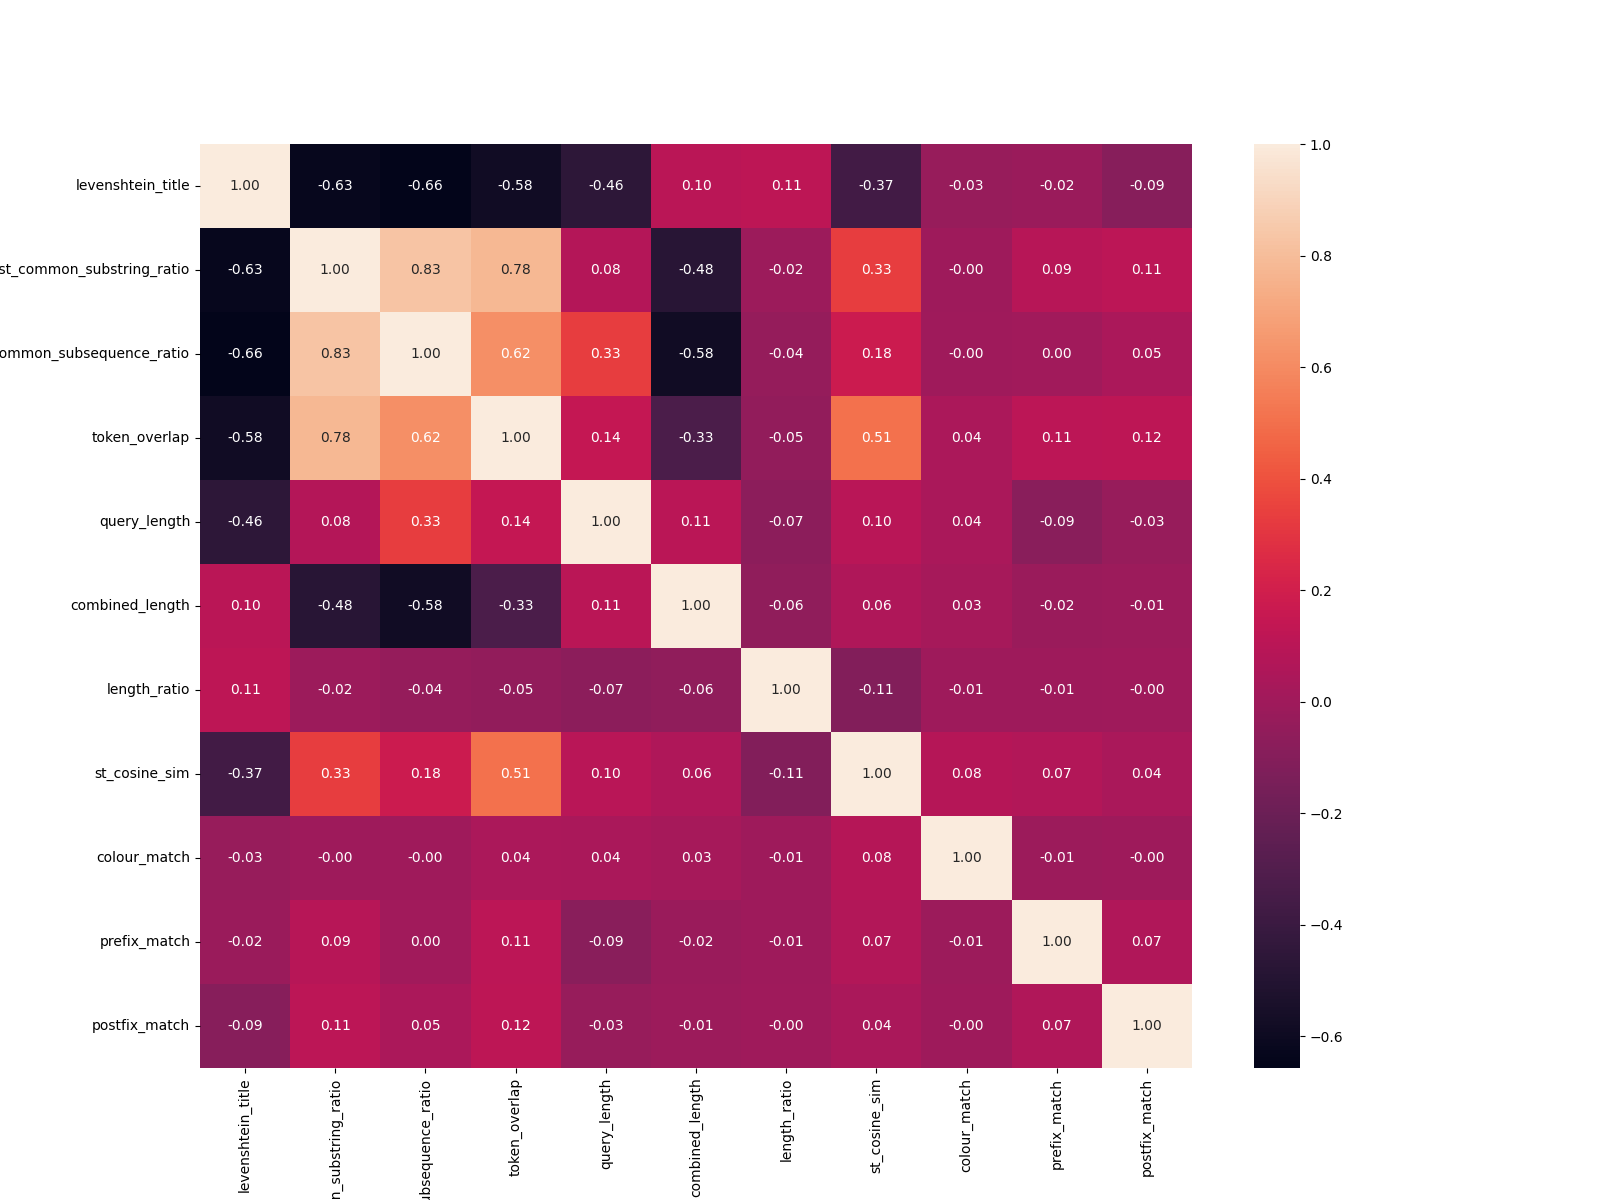
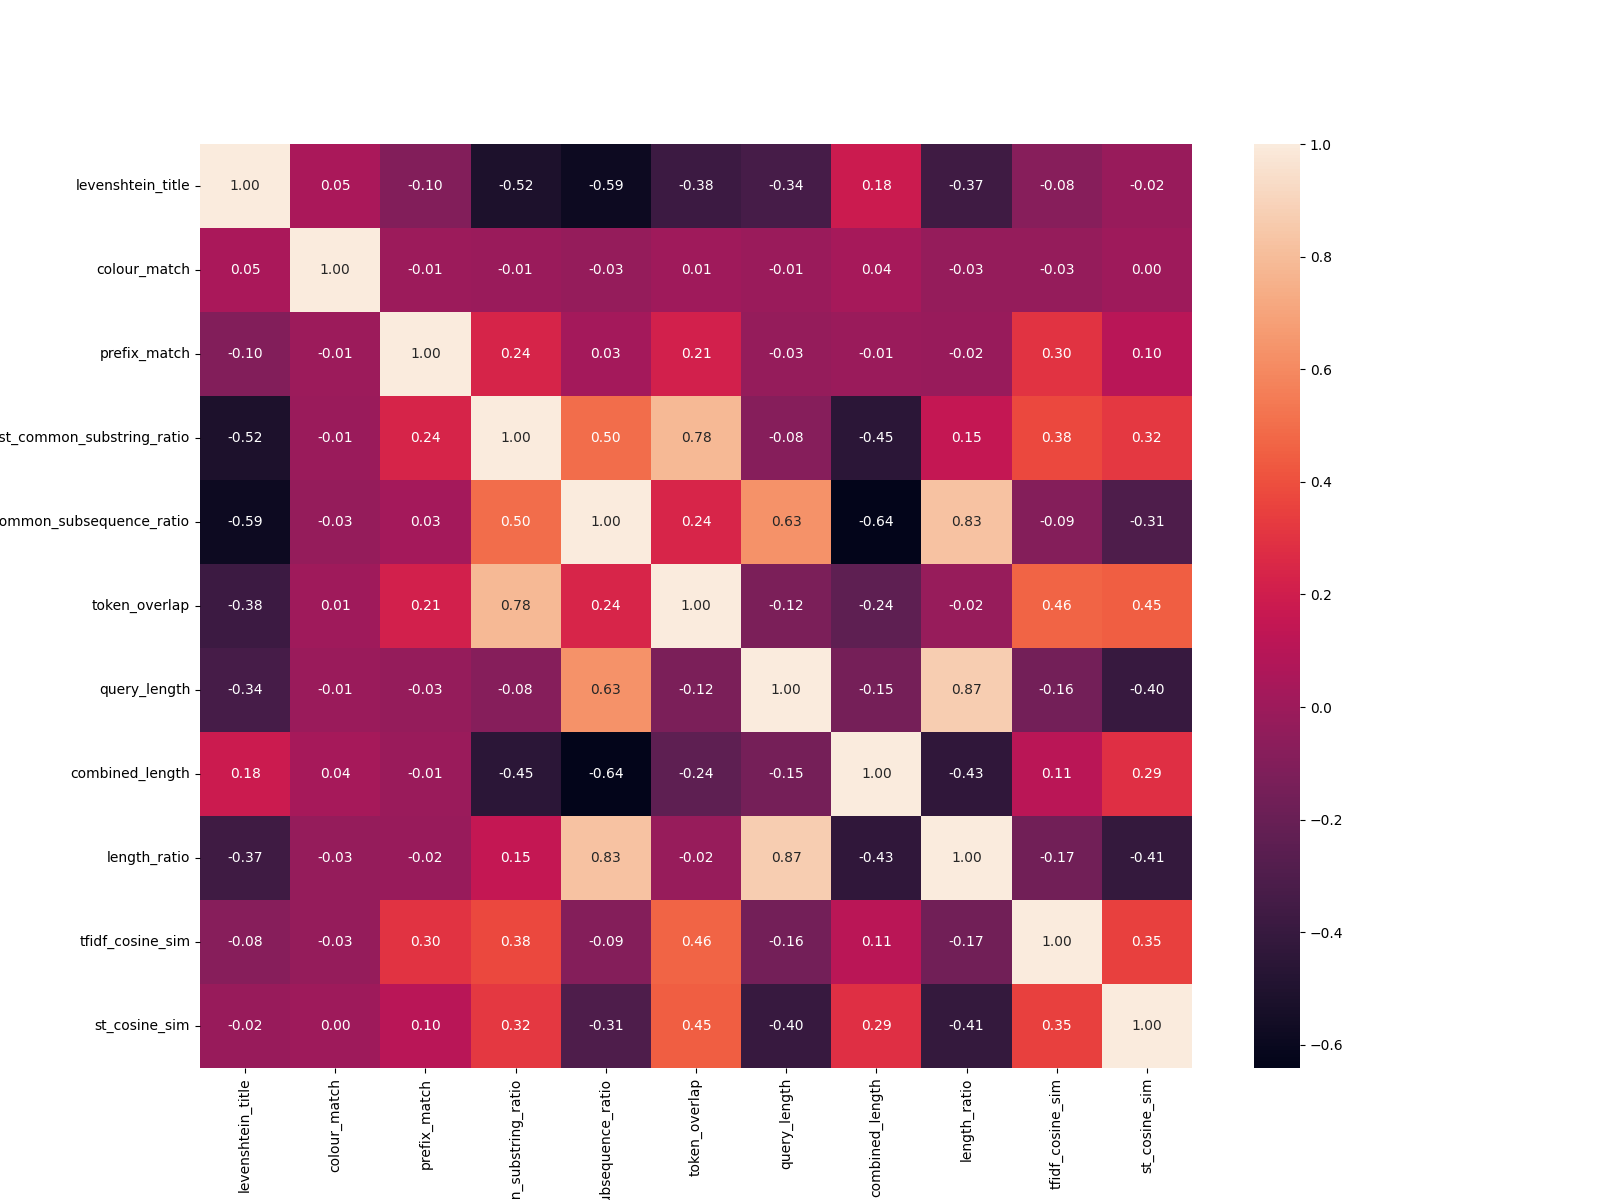
27 02

diff --git a/train.py b/train.py
@@ -4,9 +4,7 @@ import numpy as np
 import pandas as pd
 from tqdm import tqdm
 
-from sentence_transformers import SentenceTransformer
-from sklearn.feature_extraction.text import TfidfVectorizer
-from sklearn.model_selection import GroupShuffleSplit, GroupKFold
+from sklearn.model_selection import GroupKFold
 from sklearn.metrics import ndcg_score
 from scipy.stats import kendalltau, weightedtau
 import lightgbm as lgbm
@@ -22,6 +20,8 @@ def train(df: pd.DataFrame, feature_columns: list):
     best_ndcg = -np.inf
     best_model = None
     best_fold = None
+    best_kendall = None
+    best_weighted_tau = None
     
     gkf = GroupKFold(n_splits=5)
     
@@ -42,22 +42,44 @@ def train(df: pd.DataFrame, feature_columns: list):
                    num_boost_round=800)
         
         ndcg_scores = []
+        kendall_scores = []
+        weightedtau_scores = []
+        
         for qid, group in tqdm(df.iloc[valid_id].groupby("query_id"), desc="Evaluating queries", leave=False):
             if group.shape[0] < 2:
                 continue
             y_true = group["labels"].values.reshape(1, -1)
             x_query = group[feature_columns]
             y_pred = model.predict(x_query, num_iteration=model.best_iteration).reshape(1, -1)
+            
+            # scoring
             ndcg = ndcg_score(y_true, y_pred, k=3)
+
+            y_true_flat = y_true.flatten()
+            y_pred_flat = y_pred.flatten()
+            
+            tau_kendall, _ = kendalltau(y_true_flat, y_pred_flat)
+            tau_weighted, _ = weightedtau(y_true_flat, y_pred_flat)
+            
             ndcg_scores.append(ndcg)
+            kendall_scores.append(tau_kendall)
+            weightedtau_scores.append(tau_weighted)
+
         
         avg_ndcg = np.mean(ndcg_scores)
-        tqdm.write("Validation NDCG Score for Fold {}: {:.4f}".format(fold + 1, np.mean(ndcg_scores)))
+        avg_kendall = np.mean(kendall_scores)
+        avg_weightedtau = np.mean(weightedtau_scores)
+        tqdm.write(f"Validation Fold {fold + 1} - NDCG: {avg_ndcg:.4f}, Kendall Tau: {avg_kendall:.4f}, Weighted Tau: {avg_weightedtau:.4f}")
         
         if avg_ndcg > best_ndcg:
             best_ndcg = avg_ndcg
             best_model = model
             best_fold = fold + 1
+            
+            # this actually is not the best kendall and weighted tau, 
+            # TODO: update lists to dicts and keep track of all, this way we can choose a "best_metric" to compare from variables.py
+            best_kendall = avg_kendall
+            best_weighted_tau = avg_weightedtau
             
     if best_model is not None:
         if not os.path.exists(MODEL_SAVE_FOLDER):
@@ -65,6 +87,7 @@ def train(df: pd.DataFrame, feature_columns: list):
         best_model_fn = os.path.join(MODEL_SAVE_FOLDER, f"model_fold_{best_fold}.pkl")
         save_model(model, best_model_fn, as_txt=False)
         tqdm.write(f"Best Model saved at {best_model_fn}")
+        tqdm.write(f"Metrics of Best Model - Fold {best_fold}: NDCG: {best_ndcg:.4f}, Kendall Tau: {best_kendall:.4f}, Weighted Tau: {best_weighted_tau:.4f}")
     else:
         tqdm.write("??? No best model found ???")
         

diff --git a/pipeline.py b/pipeline.py
@@ -35,7 +35,6 @@ def normalize_colors(df) -> tuple[pd.DataFrame, list[str]]:
 def time_colour_match(df) -> tuple[pd.DataFrame, list[str]]:
     df["colour_match"] = df[["query", "product_color"]].apply(lambda r: colour_match(r["query"], r["product_color"]), axis=1)
     print(df["colour_match"].value_counts(), "\n")
-    print(df["colour_match"].describe())
     return df, ["colour_match"]
 
 
@@ -95,7 +94,7 @@ def preprocess_pipeline(df: pd.DataFrame) -> tuple[pd.DataFrame, list[str]]:
 
     # prefix, postfix match
     df, prefix_match_column = time_prefix_match(df)
-    df, postfix_match_column = time_postfix_match(df)
+    # df, postfix_match_column = time_postfix_match(df)
 
     # additional length-related features
     df, names_additional_feature = time_additional_features(df)
@@ -107,7 +106,7 @@ def preprocess_pipeline(df: pd.DataFrame) -> tuple[pd.DataFrame, list[str]]:
     feature_columns.extend(levenshtein_title_column)
     feature_columns.extend(colour_match_column)
     feature_columns.extend(prefix_match_column)
-    feature_columns.extend(postfix_match_column)
+    # feature_columns.extend(postfix_match_column)
     feature_columns.extend(names_additional_feature)
     feature_columns.extend(names_tfidf_column)
     feature_columns.extend(names_st_column)

diff --git a/utils/process_color.py b/utils/process_color.py
@@ -32,13 +32,13 @@ def colour_normalize(colour: str,
                                            scorer=fuzz.token_sort_ratio)
     if score >= threshold:
         return matched
-    else:
-        for colour in colours_list:
-            lcs_length = longest_common_subsequence(processed_colour, colour)
-            # a ratio to check if its matched is good but with 3-4 char colours, it should be exact or one off. e.g. "red" "ref", "blue" "blur"
-            if (len(colour) > 4 and lcs_length / len(colour) >= threshold and lcs_length > 1) or \
-               (len(colour) <= 4 and lcs_length + 1 >= len(colour) and lcs_length > 1):
-                return colour
+    # else:  # too long for diminishing returns
+    #     for colour in colours_list:
+    #         lcs_length = longest_common_subsequence(processed_colour, colour)
+    #         # a ratio to check if its matched is good but with 3-4 char colours, it should be exact or one off. e.g. "red" "ref", "blue" "blur"
+    #         if (len(colour) > 4 and lcs_length / len(colour) >= threshold and lcs_length > 1) or \
+    #            (len(colour) <= 4 and lcs_length + 1 >= len(colour) and lcs_length > 1):
+    #             return colour
     return "unknown"
 
 

diff --git a/main.py b/main.py
@@ -26,15 +26,15 @@ if __name__ == "__main__":
     train_filenames = [f for f in os.listdir(ROOT_FOLDER) if f.startswith("train")]
     test_filenames = [f for f in os.listdir(ROOT_FOLDER) if f.startswith("test")]
 
-    df = load_df(train_filenames[: 1])
-    df_test = load_df(test_filenames[: 1])
+    df = load_df(train_filenames[: 2])
+    df_test = load_df(test_filenames[:])
 
     print("DF COLUMNS: ", df.columns)
     print("DF TEST COLUMNS: ", df_test.columns)
     print("DF SHAPE: ", df.shape)
     print("DF TEST SHAPE: ", df_test.shape)
 
-    df = df[: 1000]  # for testing purposes
+    # df = df[: 1000]  # for testing purposes
 
     df, feature_columns = preprocess_pipeline(df)
     # df_test = preprocess_pipeline(df_test)

diff --git a/inference.py b/inference.py
@@ -15,7 +15,7 @@ def test(model: lgbm.Booster = None,
           test_df: pd.DataFrame = None,
           feature_columns: list[str] = None):
     if model is None:
-        model: lgbm.Booster = load_model(os.path.join(MODEL_SAVE_FOLDER, "model_fold_2.pkl"))
+        model: lgbm.Booster = load_model(os.path.join(MODEL_SAVE_FOLDER, "model_best.pkl"))
     
     plot_importances(model)
 
